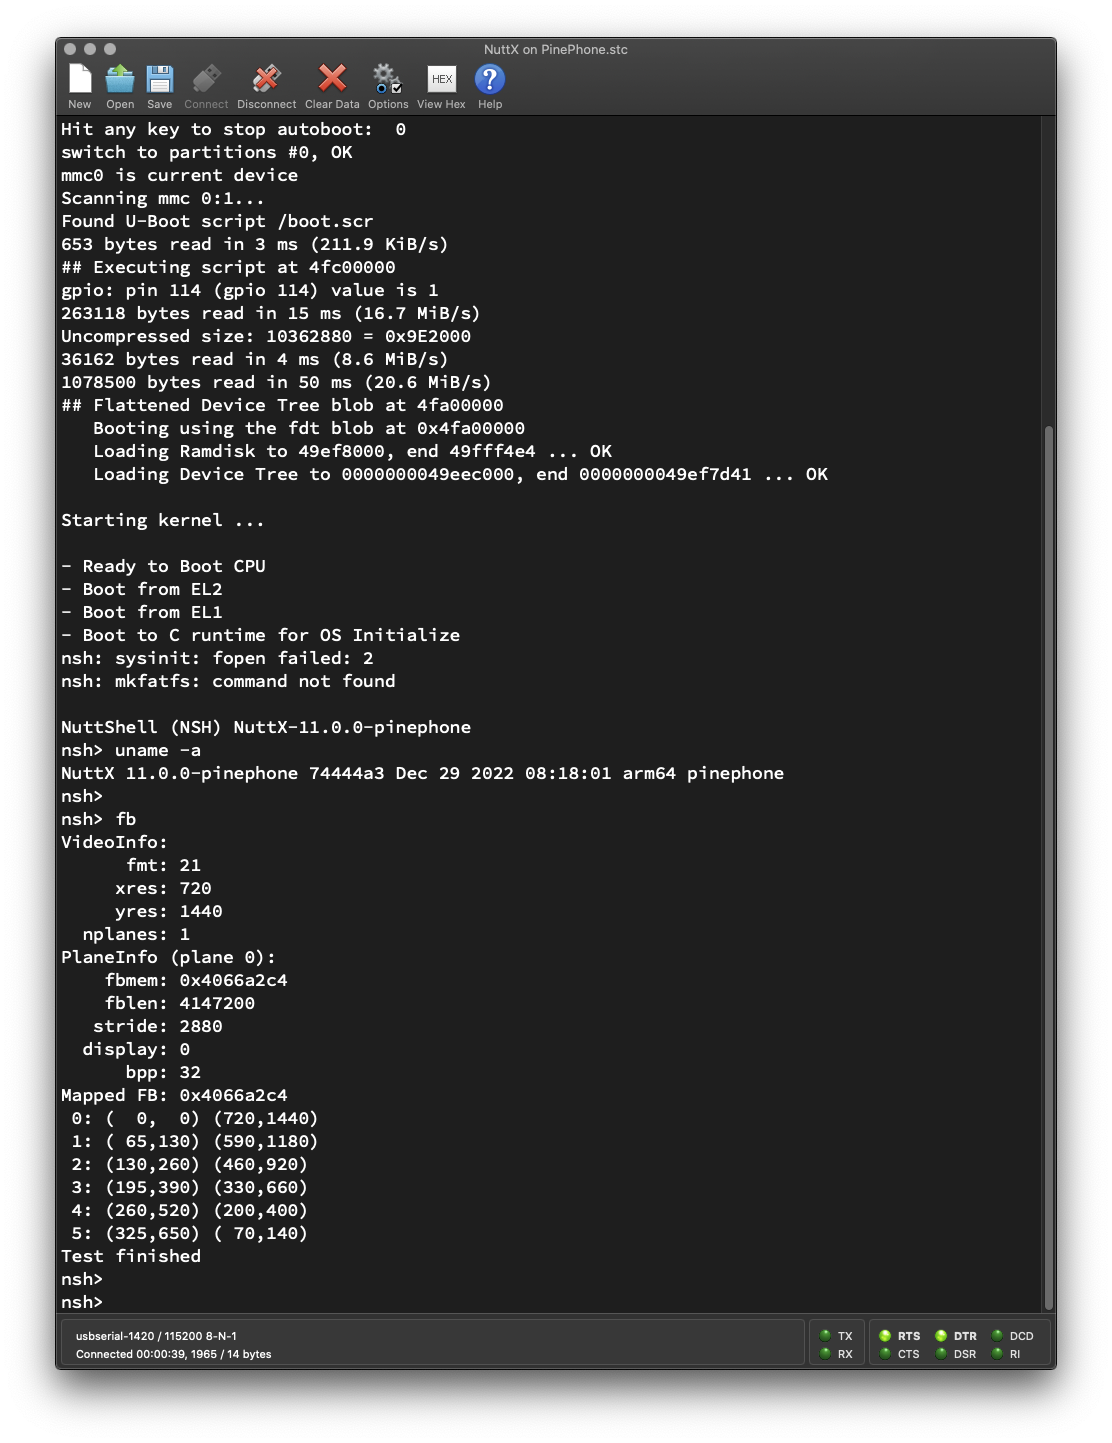
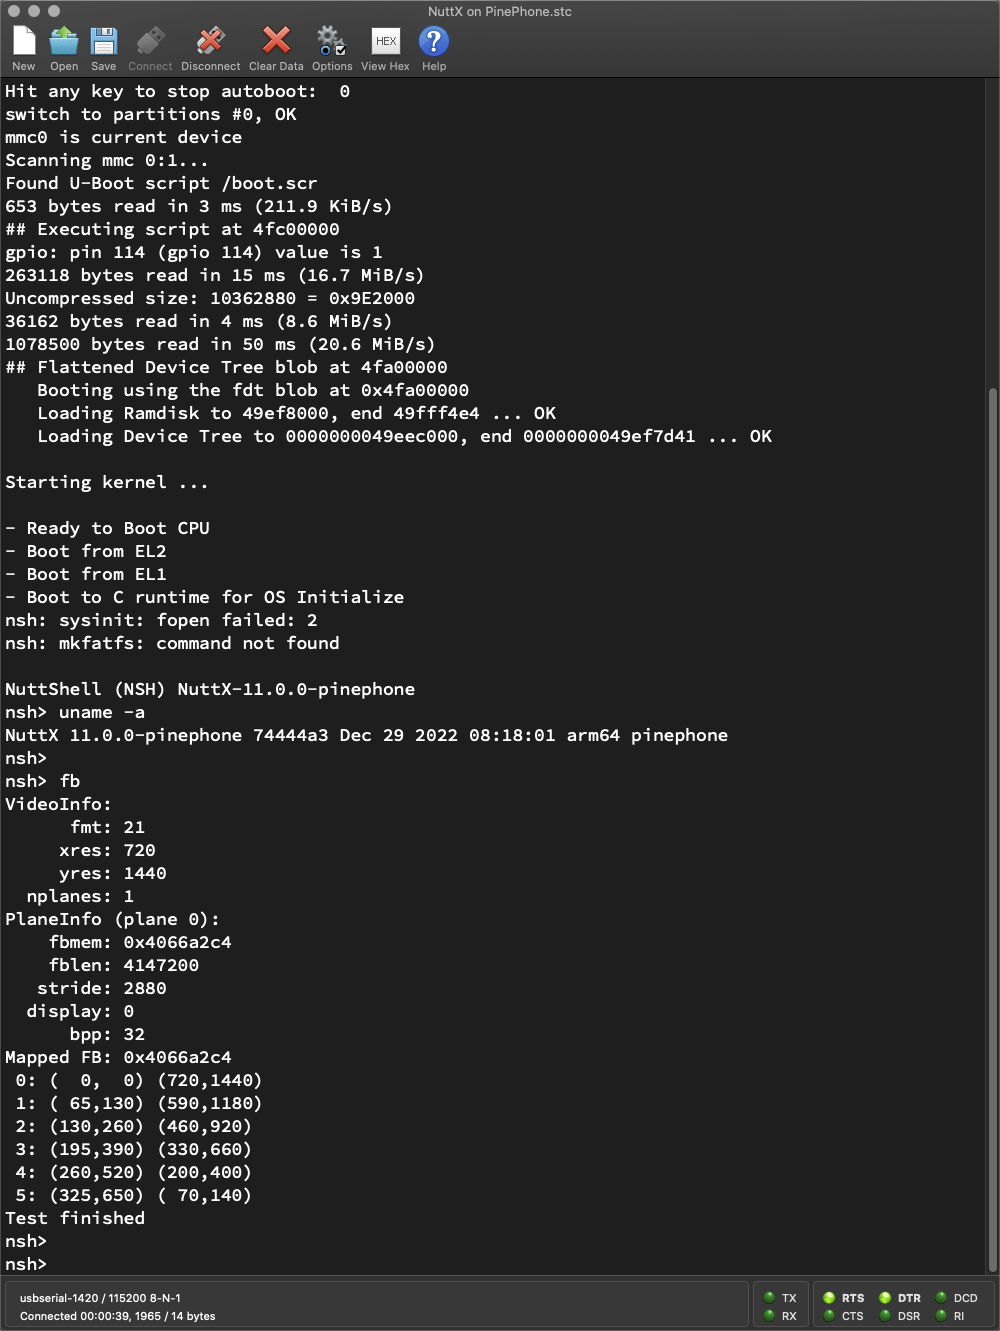
Update article

diff --git a/src/what.md b/src/what.md
@@ -10,6 +10,10 @@ Over the past few months we've ported a different kind of operating system to [_
 
 Let's talk about __NuttX for PinePhone__: What is it? Why are we doing this? How will we use it?
 
+![NuttX App running on PinePhone](https://lupyuen.github.io/images/fb-run.png)
+
+[_NuttX App running on PinePhone_](https://gist.github.com/lupyuen/474b0546f213c25947105b6a0daa7c5b)
+
 TODO
 
 _What's Apache NuttX RTOS?_
